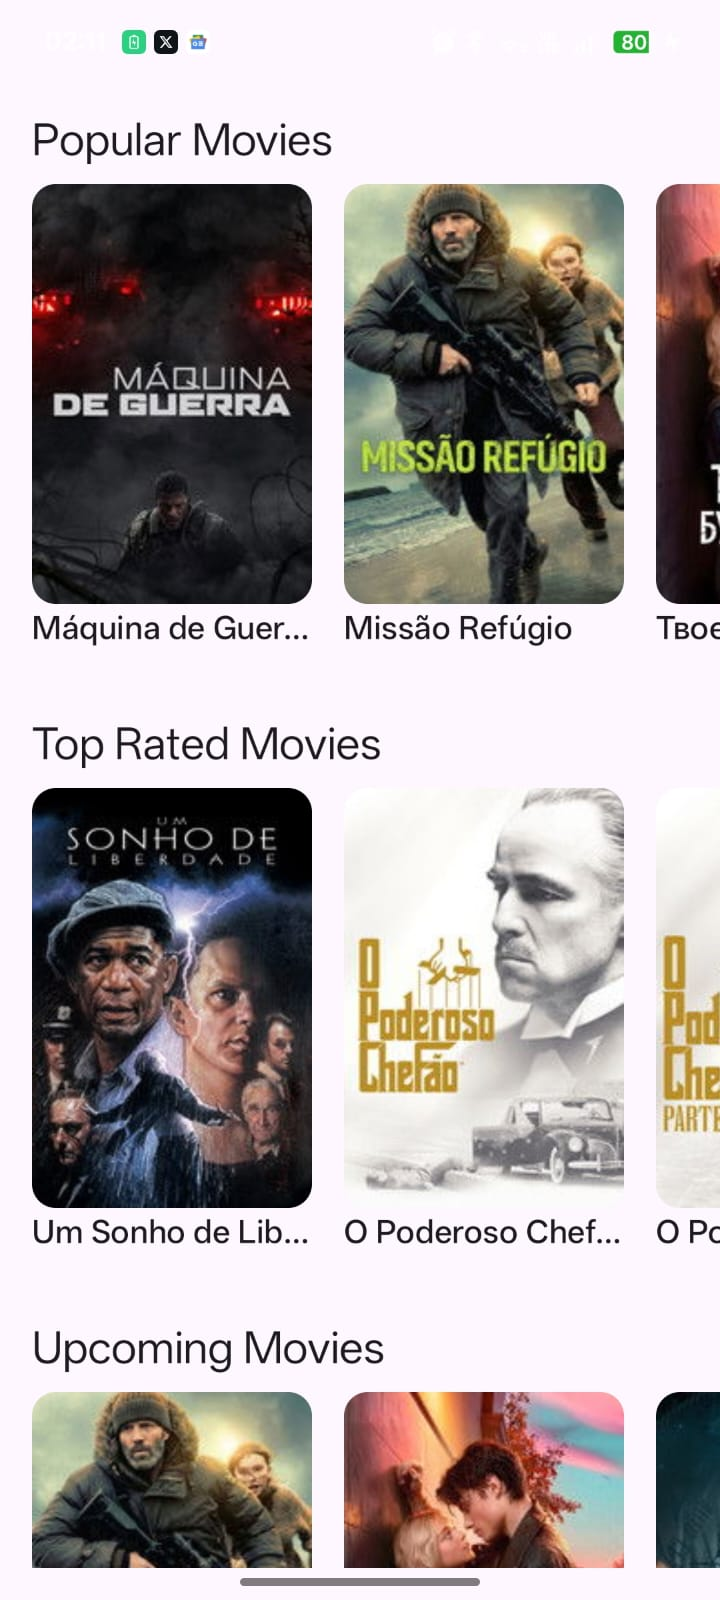
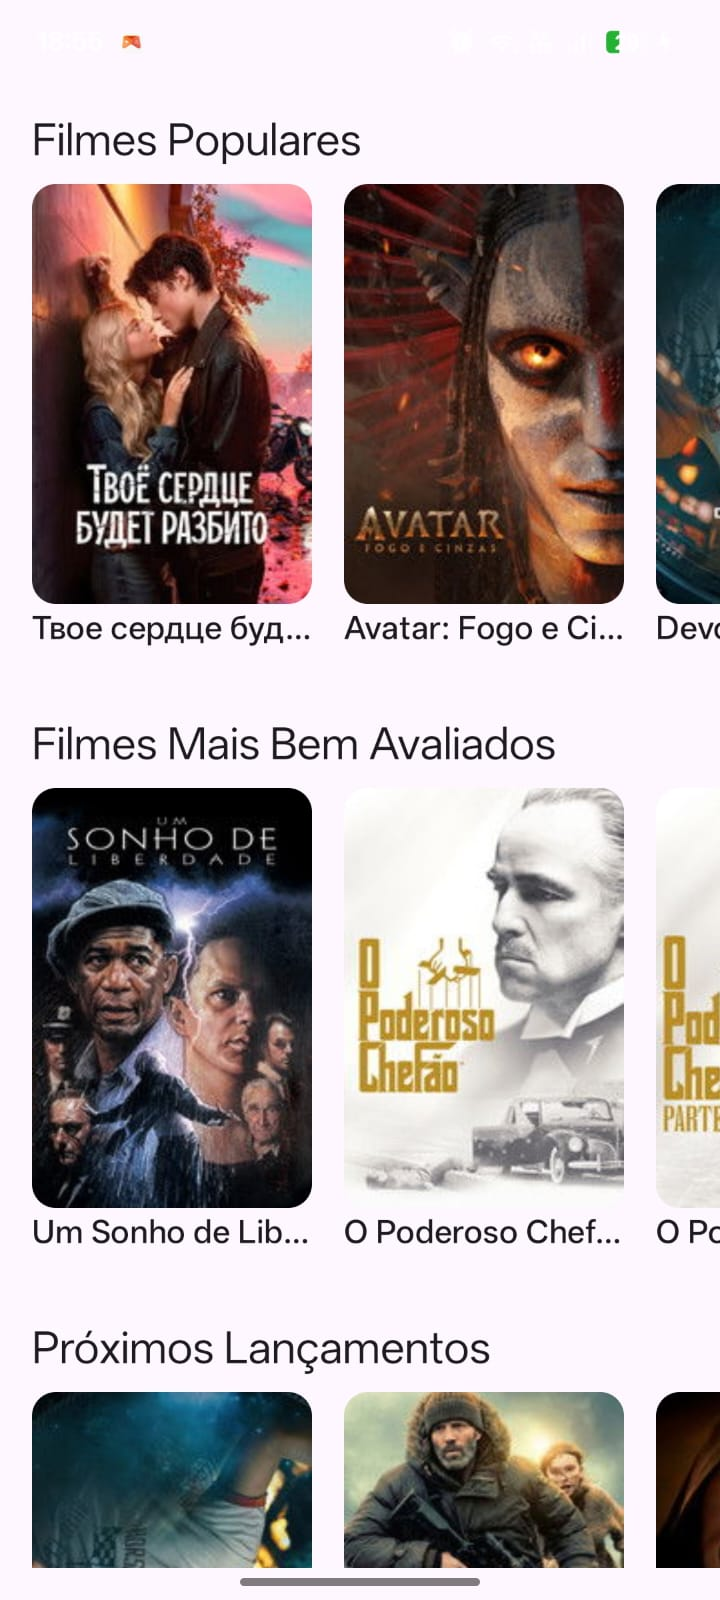
internationalization with en and pt-br

diff --git a/composeApp/src/commonMain/kotlin/com/example/move/ui/movies/MoveisListScreen.kt b/composeApp/src/commonMain/kotlin/com/example/move/ui/movies/MoveisListScreen.kt
@@ -20,6 +20,11 @@ import androidx.compose.ui.unit.dp
 import androidx.lifecycle.compose.collectAsStateWithLifecycle
 import com.example.move.domain.model.MovieSection
 import com.example.move.ui.components.MoviesSection
+import move.composeapp.generated.resources.Res
+import move.composeapp.generated.resources.movies_list_popular_movies
+import move.composeapp.generated.resources.movies_list_top_rated_movies
+import move.composeapp.generated.resources.movies_list_upcoming_movies
+import org.jetbrains.compose.resources.stringResource
 import org.koin.compose.viewmodel.koinViewModel
 
 @Composable
@@ -56,9 +61,9 @@ fun MoviesListScreen(
 
                         items(movieListState.movieSections) { moviesection ->
                             val title = when (moviesection.sectionType) {
-                                MovieSection.SectionType.POPULAR -> "Popular Movies"
-                                MovieSection.SectionType.TOP_RATED -> "Top Rated Movies"
-                                MovieSection.SectionType.UPCOMING -> "Upcoming Movies"
+                                MovieSection.SectionType.POPULAR -> stringResource(Res.string.movies_list_popular_movies)
+                                MovieSection.SectionType.TOP_RATED -> stringResource(Res.string.movies_list_top_rated_movies)
+                                MovieSection.SectionType.UPCOMING -> stringResource(Res.string.movies_list_upcoming_movies)
                             }
                             MoviesSection(
                                 title = title,

diff --git a/README.md b/README.md
@@ -2,7 +2,7 @@
 # Move 🎬
 
 App Kotlin Multiplatform (Android + iOS) para listagem de filmes, consumindo a API do [The Movie DB (TMDB)](https://www.themoviedb.org/).
-
+Listagem de Filmes com títulos internacionalizados em EN e PT-BR, utilizando o recurso de internacionalização.
 ---
 
 ## ⚙ Configuração inicial
